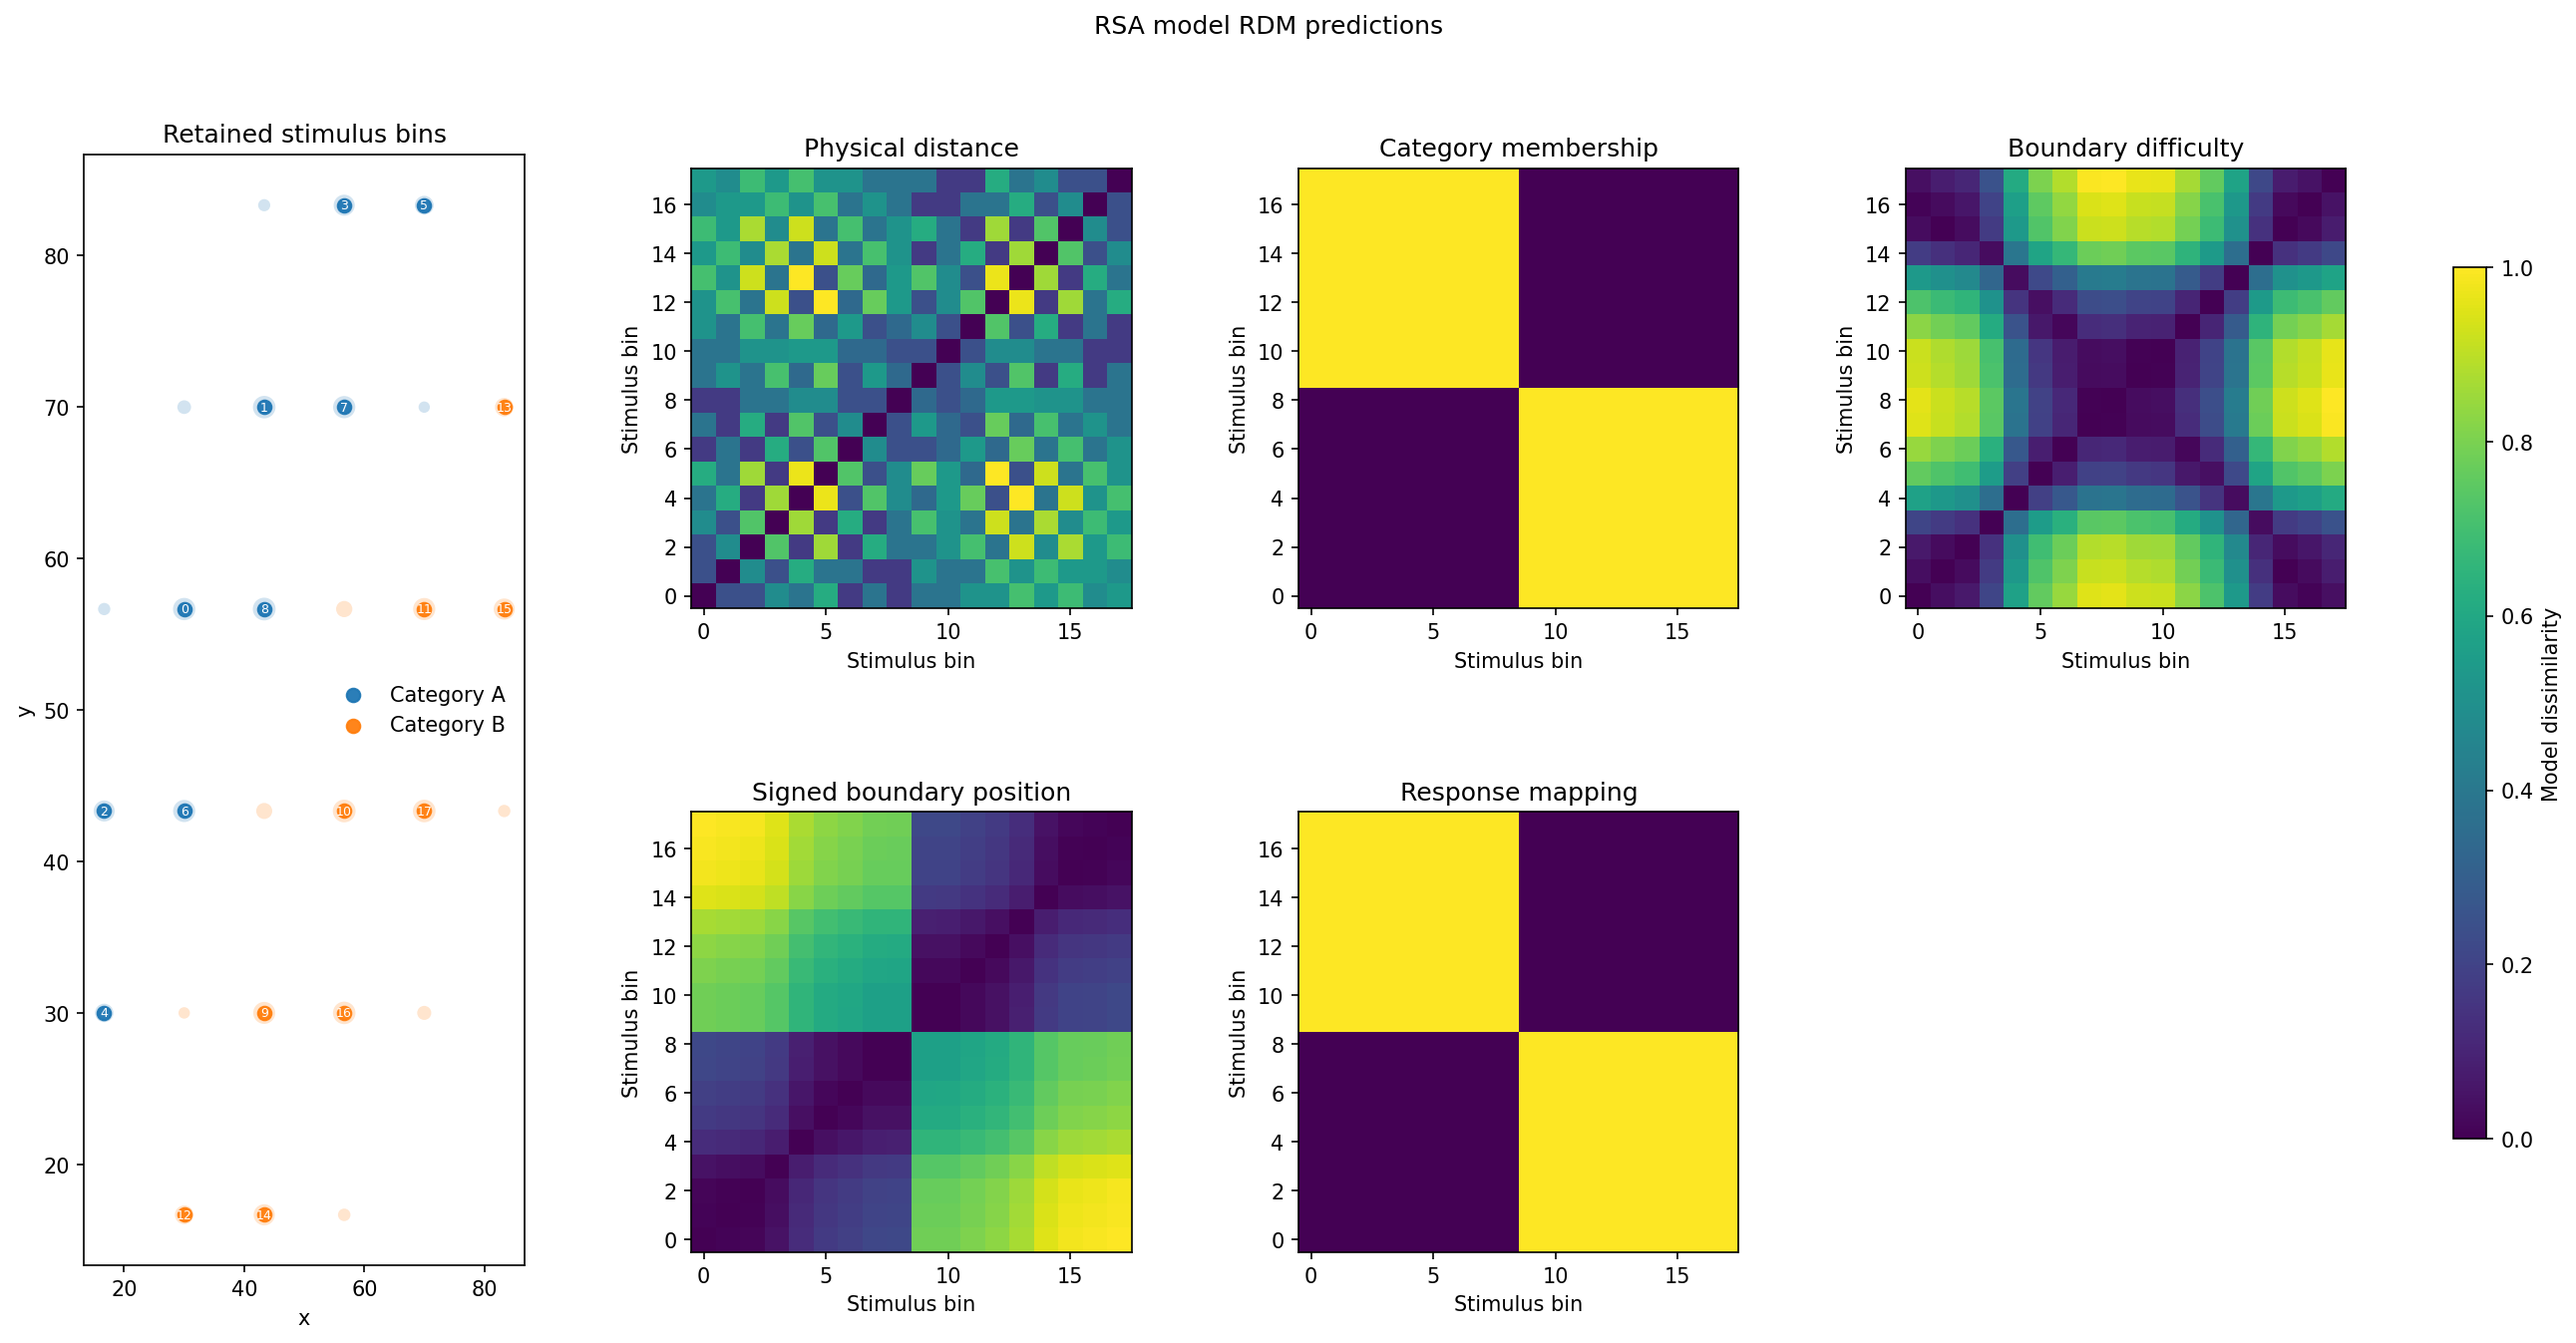
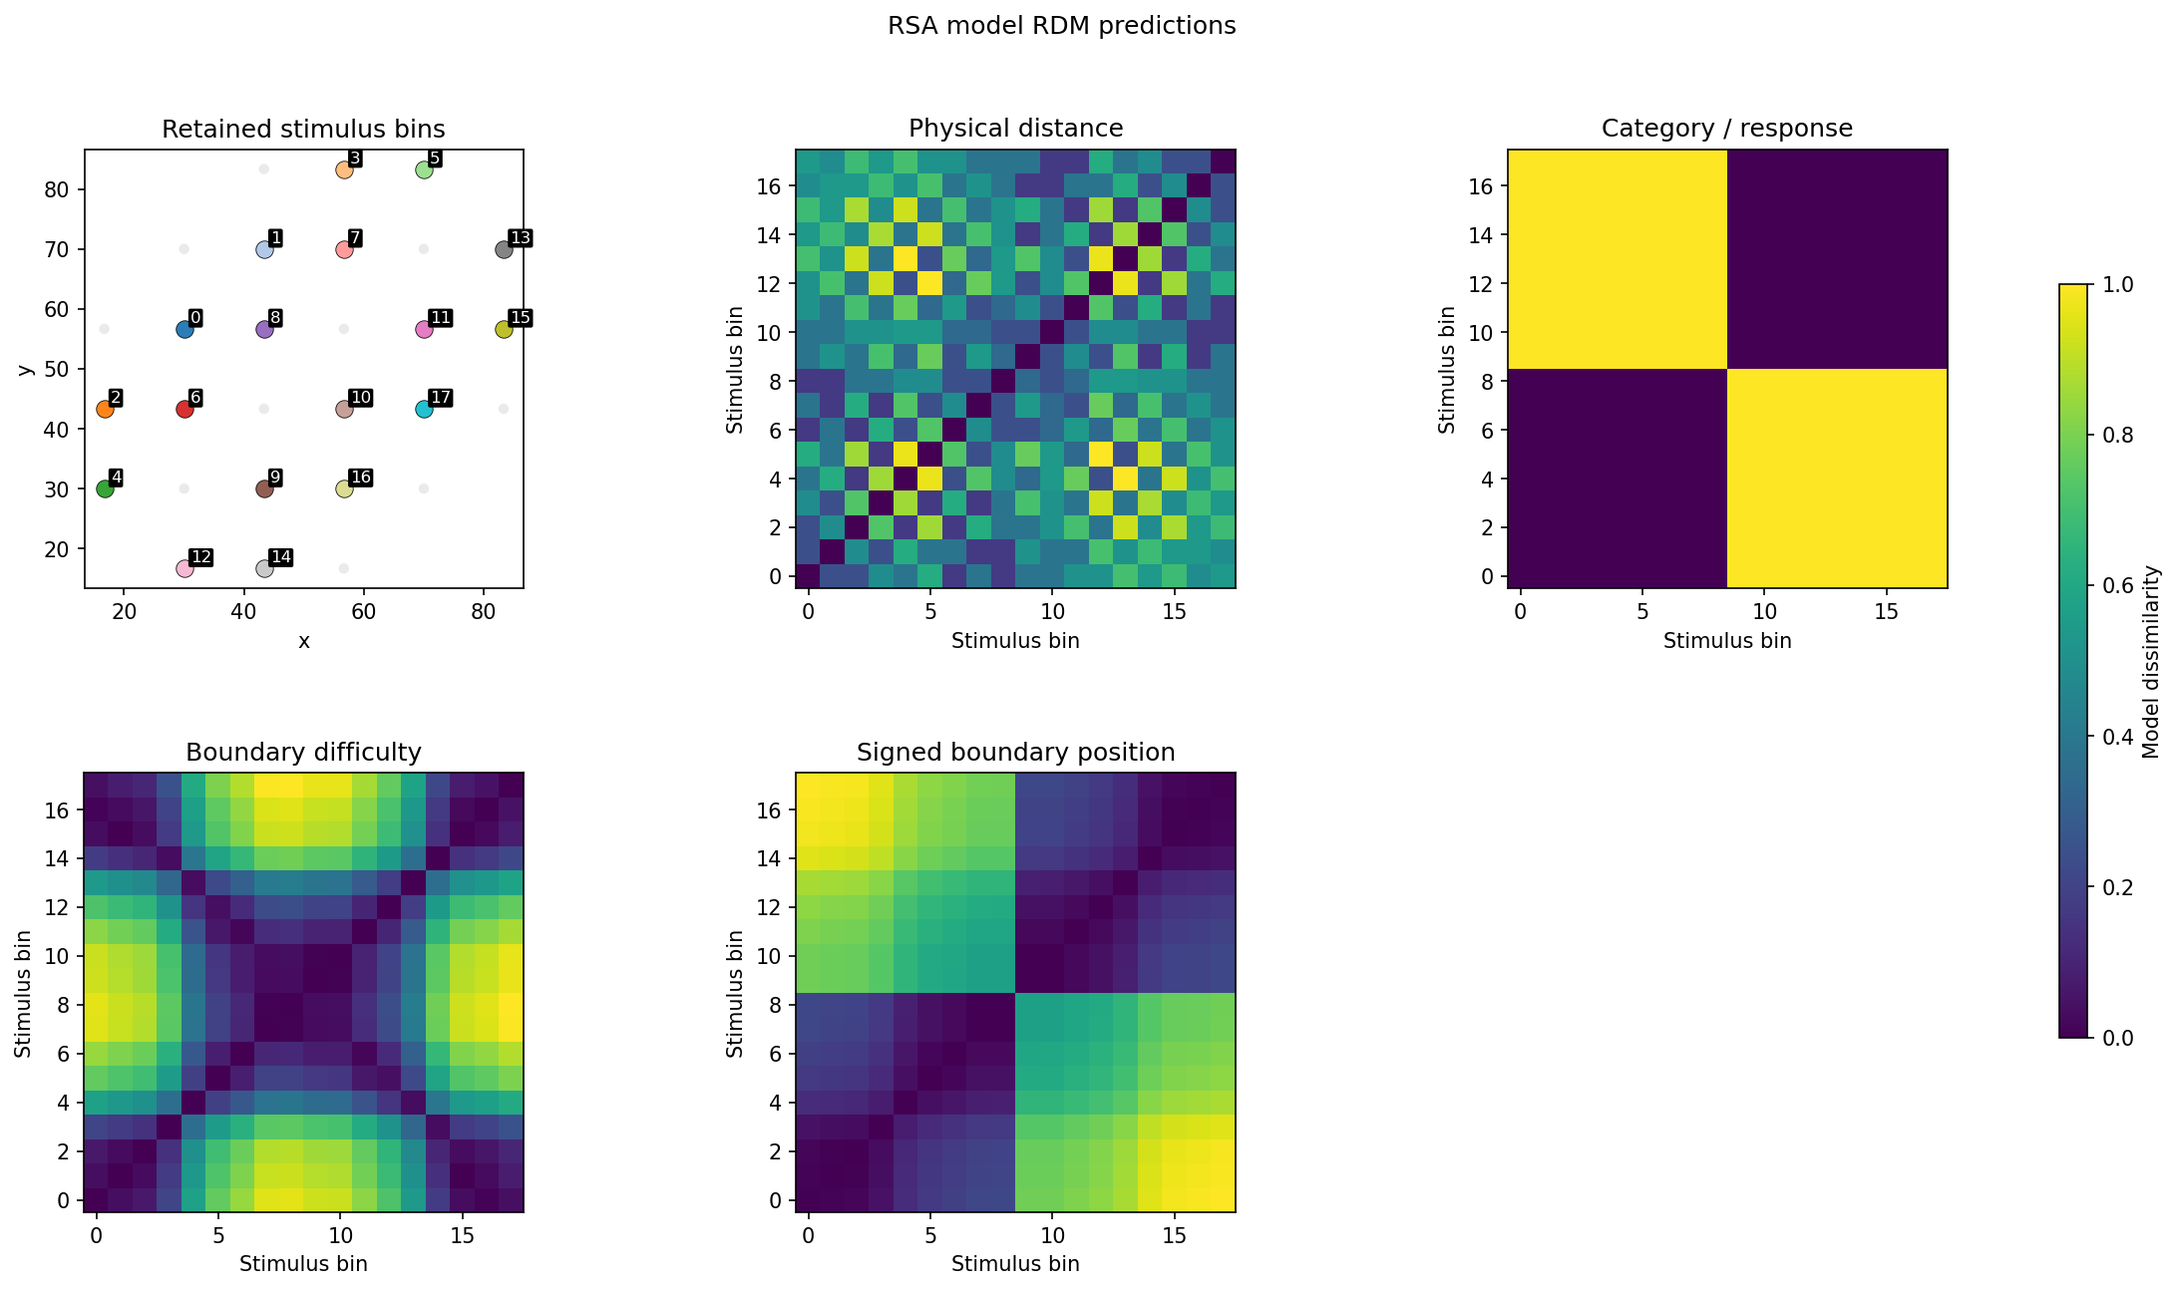
updated 5x5 and more rsa pred fig tweaks

diff --git a/code/rsa_model_predictions.py b/code/rsa_model_predictions.py
@@ -194,20 +194,17 @@ def make_model_rdms(bin_df):
     signed = bin_df["boundary_signed_center"].to_numpy(dtype=float)
     abs_boundary = bin_df["boundary_abs_center"].to_numpy(dtype=float)
     category = bin_df["category_label"].to_numpy(dtype=str)
-    response = bin_df["response_label"].to_numpy(dtype=str)
 
     physical = np.sqrt(((xy[:, None, :] - xy[None, :, :]) ** 2).sum(axis=2))
     category_same = (category[:, None] != category[None, :]).astype(float)
     boundary_difficulty = np.abs(abs_boundary[:, None] - abs_boundary[None, :])
     signed_boundary = np.abs(signed[:, None] - signed[None, :])
-    response_mapping = (response[:, None] != response[None, :]).astype(float)
 
     return {
         "Physical distance": _normalize_rdm(physical),
-        "Category membership": category_same,
+        "Category / response": category_same,
         "Boundary difficulty": _normalize_rdm(boundary_difficulty),
         "Signed boundary position": _normalize_rdm(signed_boundary),
-        "Response mapping": response_mapping,
     }
 
 
@@ -234,67 +231,69 @@ def plot_grid_diagnostics(diagnostics, selected_n, fig_path):
 
 
 def plot_model_predictions(all_bins, retained_bins, rdms, fig_path):
-    fig = plt.figure(figsize=(18, 9.4))
+    fig = plt.figure(figsize=(15.5, 9.0))
     gs = fig.add_gridspec(
         2,
-        4,
+        3,
         left=0.06,
         right=0.90,
         top=0.88,
         bottom=0.09,
-        wspace=0.38,
-        hspace=0.38,
+        wspace=0.36,
+        hspace=0.42,
     )
-    ax_space = fig.add_subplot(gs[:, 0])
-    colors = {"A": "tab:blue", "B": "tab:orange"}
-    for label, group in all_bins.groupby("category_label"):
+    ax_space = fig.add_subplot(gs[0, 0])
+    bin_colors = plt.cm.tab20(
+        np.linspace(0, 1, max(len(retained_bins), 2), endpoint=False)
+    )
+    for _, row in all_bins.iterrows():
         ax_space.scatter(
-            group["x_center"],
-            group["y_center"],
-            s=120 * np.sqrt(group["n_trials"] / group["n_trials"].max()),
-            alpha=0.20,
-            color=colors[label],
-            edgecolor="none",
-        )
-    for label, group in retained_bins.groupby("category_label"):
-        ax_space.scatter(
-            group["x_center"],
-            group["y_center"],
-            s=42,
-            alpha=0.95,
-            color=colors[label],
-            label=f"Category {label}",
-        )
-    for _, row in retained_bins.iterrows():
-        ax_space.text(
             row["x_center"],
             row["y_center"],
-            str(int(row["rdm_order"])),
-            fontsize=6,
-            ha="center",
-            va="center",
+            s=25,
+            alpha=0.18,
+            color="0.55",
+            edgecolor="none",
+        )
+    for _, row in retained_bins.iterrows():
+        idx = int(row["rdm_order"])
+        ax_space.scatter(
+            row["x_center"],
+            row["y_center"],
+            s=70,
+            alpha=0.95,
+            color=bin_colors[idx],
+            edgecolor="black",
+            linewidth=0.4,
+        )
+        ax_space.annotate(
+            str(idx),
+            (row["x_center"], row["y_center"]),
+            xytext=(3, 3),
+            textcoords="offset points",
+            fontsize=8,
             color="white",
+            bbox={"boxstyle": "round,pad=0.12", "facecolor": "black", "edgecolor": "none"},
         )
     ax_space.set_xlabel("x")
     ax_space.set_ylabel("y")
     ax_space.set_title("Retained stimulus bins")
-    ax_space.legend(frameon=False, loc="best")
+    ax_space.set_aspect("equal", adjustable="box")
 
     axes = [
         fig.add_subplot(gs[0, 1]),
         fig.add_subplot(gs[0, 2]),
-        fig.add_subplot(gs[0, 3]),
+        fig.add_subplot(gs[1, 0]),
         fig.add_subplot(gs[1, 1]),
-        fig.add_subplot(gs[1, 2]),
     ]
     for ax, (name, mat) in zip(axes, rdms.items()):
         im = ax.imshow(mat, origin="lower", cmap="viridis", vmin=0, vmax=1)
         ax.set_title(name)
         ax.set_xlabel("Stimulus bin")
         ax.set_ylabel("Stimulus bin")
-    ax_empty = fig.add_subplot(gs[1, 3])
+    ax_empty = fig.add_subplot(gs[1, 2])
     ax_empty.axis("off")
-    cax = fig.add_axes([0.94, 0.18, 0.012, 0.62])
+    cax = fig.add_axes([0.93, 0.22, 0.012, 0.56])
     fig.colorbar(im, cax=cax, label="Model dissimilarity")
     fig.suptitle("RSA model RDM predictions")
     fig.savefig(fig_path, dpi=150, bbox_inches="tight")
